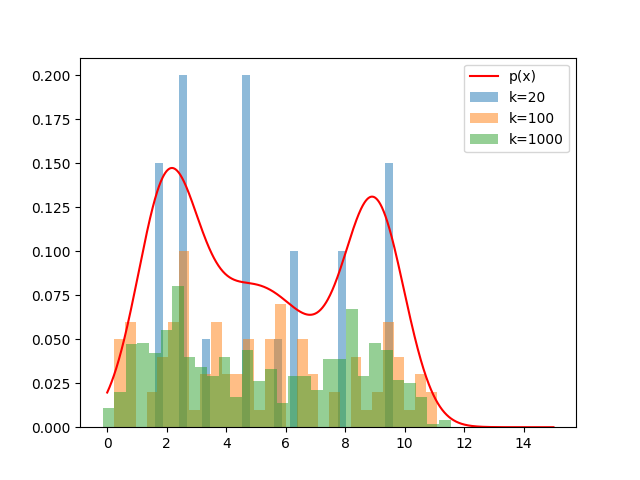
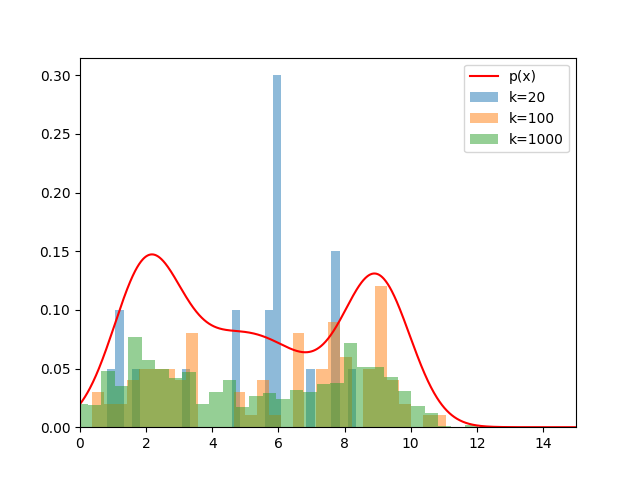
Ex1 - 126. commit

diff --git a/Ex2/aflevering.py b/Ex2/aflevering.py
@@ -35,7 +35,7 @@ def sir(k):
 
     #print(p(samples), p(q(k)), samples, q(k))
     # Compute weights
-    weights = p(samples) 
+    weights = p(samples)
 
     # Normalize weights
     weights /= sum(weights)
@@ -63,6 +63,7 @@ x = np.linspace(0, 15, 1000)
 plt.plot(x, p(x), 'r', label='p(x)')
 
 plt.legend()
+plt.xlim(0,15)
 plt.savefig('Ex2/fig1.png')
 plt.show()
 plt.close()
@@ -99,6 +100,7 @@ x = np.linspace(0, 15, 1000)
 plt.plot(x, p(x), 'r', label='p(x)')
 
 plt.legend()
+plt.xlim(0,15)
 plt.savefig('Ex2/fig2.png')
 plt.show()
 plt.close()
